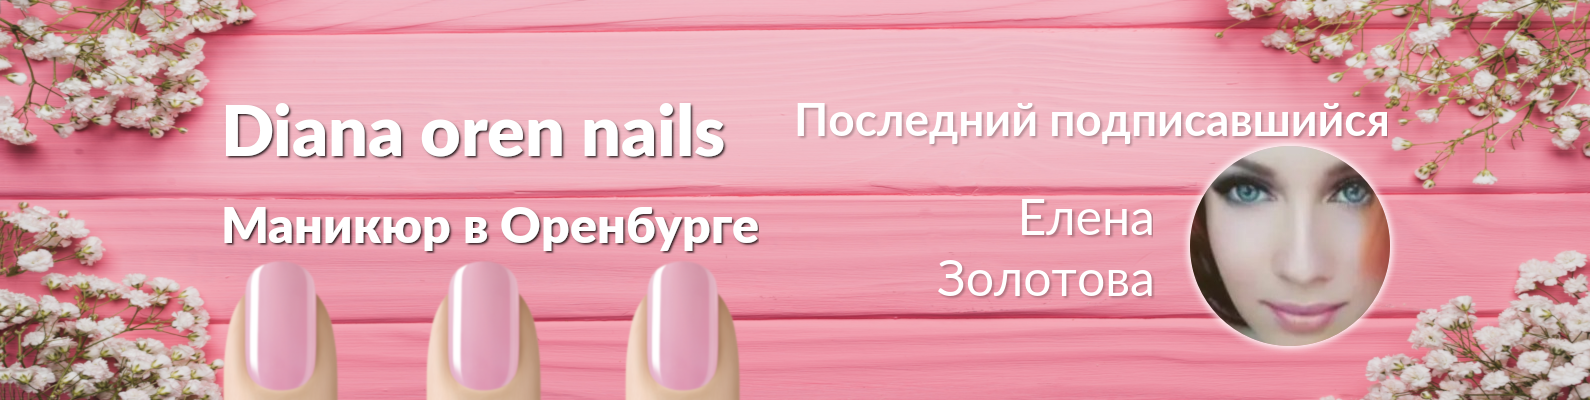
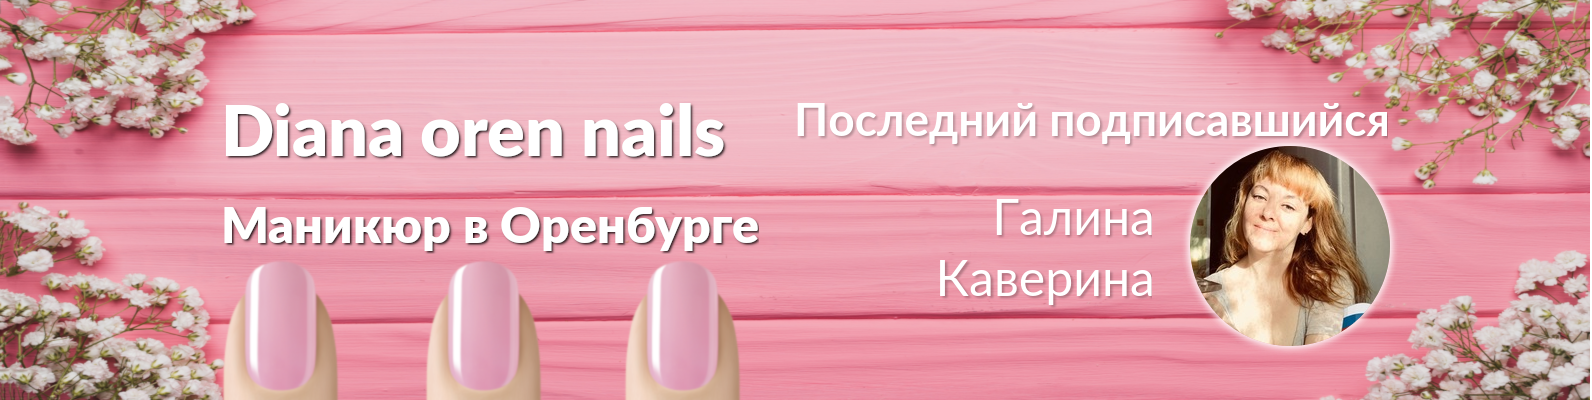
less fixes

Changed region(s): [[0.7387, 0.36, 0.8926, 0.87], [0.5848, 0.63, 0.7079, 0.75], [0.6156, 0.48, 0.7079, 0.6]]

diff --git a/templates/index_tmp.html b/templates/index_tmp.html
@@ -13,11 +13,11 @@
         </div>
         <div class="user">
             <div class="user_name">
-                Елена<br>
-                Золотова
+                Галина<br>
+                Каверина
             </div>
             <div class="avatar">
-                <img class="avatar" src="https://pp.userapi.com/c847120/v847120024/1ce5c0/0FLb85qGwTU.jpg?ava=1">
+                <img class="avatar" src="https://pp.userapi.com/c848636/v848636782/58711/Zf5LhDfjuYg.jpg?ava=1">
             </div>
         </div>
     </div>

diff --git a/app.py b/app.py
@@ -33,17 +33,14 @@ def request_to_api(method, pars):
 
 
 def main_loop():
-    print(ACCESS_TOKEN)
     parameters = {'group_id': GROUP_ID,
                   'sort': 'time_desc',
                   'count': 1,
                   'fields': 'photo_200',
                   'v': API_VERSION,
-                  'access_token': ACCESS_TOKEN+'s'
+                  'access_token': ACCESS_TOKEN,
                   }
     response = request_to_api('groups.getMembers', parameters)
-
-    print(response)
 
     first_name = response['response']['items'][0]['first_name']
     last_name = response['response']['items'][0]['last_name']
@@ -93,7 +90,7 @@ def main_loop():
 
 
 if __name__ == '__main__':
-    # while True:
-    #     main_loop()
-    #     time.sleep(60)
-    main_loop()
+    while True:
+        main_loop()
+        time.sleep(60)
+
